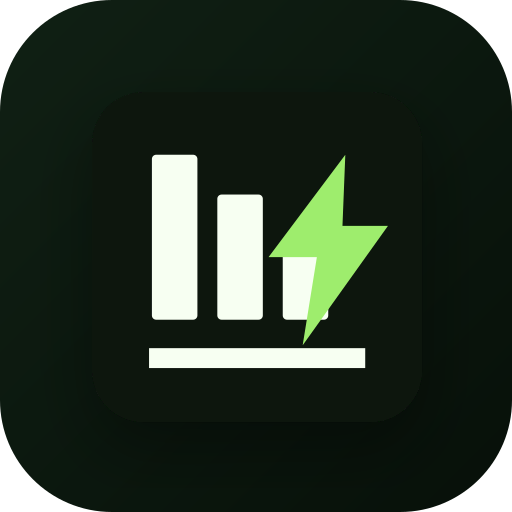
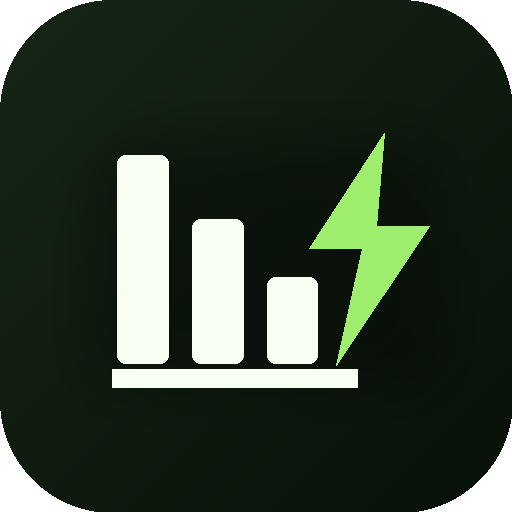
Add files via upload

diff --git a/styles.css b/styles.css
@@ -711,9 +711,9 @@ th:last-child {
   }
 
   .mobile-header .brand-mark img {
-    width: 37px;
-    height: 37px;
-    border-radius: 8px;
+    width: 100%;
+    height: 100%;
+    border-radius: 12px;
   }
 
   .sync-pill {
@@ -745,12 +745,22 @@ th:last-child {
     max-width: none;
     width: 100%;
     gap: 14px;
+    justify-self: stretch;
+  }
+
+  .custom-fields label {
+    display: grid;
+    width: 100%;
+    gap: 8px;
   }
 
   .custom-fields input {
+    width: 100%;
     min-width: 0;
+    min-height: 52px;
     padding: 0 14px;
     font-size: var(--text-md);
+    text-align: center;
   }
 
   .refresh-button {

diff --git a/k9v2m7q4/index.html b/k9v2m7q4/index.html
@@ -8,15 +8,15 @@
     <meta name="apple-mobile-web-app-status-bar-style" content="black">
     <meta name="apple-mobile-web-app-title" content="Home Studio BI">
     <title>Home Studio BI - Sheila</title>
-    <link rel="manifest" href="../manifest.webmanifest?v=11">
+    <link rel="manifest" href="../manifest.webmanifest?v=13">
     <link rel="apple-touch-icon" href="../assets/icon-192.png">
     <link rel="apple-touch-icon" sizes="180x180" href="../assets/apple-touch-icon.png">
     <link rel="apple-touch-icon" sizes="192x192" href="../assets/icon-192.png">
     <link rel="apple-touch-icon" sizes="512x512" href="../assets/icon-512.png">
     <link rel="icon" href="../assets/icon-192.png" type="image/png">
     <link rel="icon" href="../assets/icon.svg" type="image/svg+xml">
-    <link rel="stylesheet" href="../styles.css?v=11">
-    <link rel="stylesheet" href="../attendant.css?v=11">
+    <link rel="stylesheet" href="../styles.css?v=13">
+    <link rel="stylesheet" href="../attendant.css?v=13">
   </head>
   <body>
     <div class="app-shell">
@@ -180,11 +180,11 @@
         </button>
       </nav>
     </div>
-    <script src="../config.js?v=11"></script>
+    <script src="../config.js?v=13"></script>
     <script>
       window.HSBI_ATTENDANT_CONFIG = { slug: "k9v2m7q4", name: "Sheila" };
     </script>
-    <script src="../attendant.js?v=11"></script>
+    <script src="../attendant.js?v=13"></script>
   </body>
 </html>
 

diff --git a/attendant.js b/attendant.js
@@ -18,9 +18,9 @@
     attendant: {
       nome: pageConfig.name,
       comissao_percentual: 0,
-      meta_semanal_valor: 0,
       meta_premio: "",
       meta_titulo: "Meta semanal",
+      meta_valor: 0,
       meta_ativa: false,
       salario_fixo_mensal: 1000
     },
@@ -263,7 +263,7 @@
 
   function renderGoal() {
     const panel = document.getElementById("goalPanel");
-    const target = Number(state.attendant.meta_semanal_valor || 0);
+    const target = Number(state.attendant.meta_valor || 0);
     const active = Boolean(state.attendant.meta_ativa) && target > 0;
     panel.classList.toggle("is-hidden", !active);
     if (!active) return;
@@ -496,7 +496,7 @@
 
   function registerServiceWorker() {
     if ("serviceWorker" in navigator) {
-      navigator.serviceWorker.register("../sw.js?v=11").then((registration) => registration.update()).catch(console.error);
+      navigator.serviceWorker.register("../sw.js?v=13").then((registration) => registration.update()).catch(console.error);
     }
   }
 
@@ -509,9 +509,9 @@
         slug: pageConfig.slug,
         nome: "Sheila",
         comissao_percentual: 10,
-        meta_semanal_valor: 1000,
         meta_premio: "Jantar especial",
         meta_titulo: "Meta semanal",
+        meta_valor: 1000,
         meta_ativa: true,
         salario_fixo_mensal: 1000
       },

diff --git a/x7p4r9m2/index.html b/x7p4r9m2/index.html
@@ -8,14 +8,14 @@
     <meta name="apple-mobile-web-app-status-bar-style" content="black">
     <meta name="apple-mobile-web-app-title" content="Home Studio BI">
     <title>Home Studio BI</title>
-    <link rel="manifest" href="../manifest.webmanifest?v=10">
+    <link rel="manifest" href="../manifest.webmanifest?v=13">
     <link rel="apple-touch-icon" href="../assets/icon-192.png">
     <link rel="apple-touch-icon" sizes="180x180" href="../assets/apple-touch-icon.png">
     <link rel="apple-touch-icon" sizes="192x192" href="../assets/icon-192.png">
     <link rel="apple-touch-icon" sizes="512x512" href="../assets/icon-512.png">
     <link rel="icon" href="../assets/icon-192.png" type="image/png">
     <link rel="icon" href="../assets/icon.svg" type="image/svg+xml">
-    <link rel="stylesheet" href="../styles.css?v=10">
+    <link rel="stylesheet" href="../styles.css?v=13">
   </head>
   <body>
     <div class="app-shell">
@@ -220,8 +220,8 @@
         </button>
       </nav>
     </div>
-    <script src="../config.js?v=10"></script>
-    <script src="../app.js?v=10"></script>
+    <script src="../config.js?v=13"></script>
+    <script src="../app.js?v=13"></script>
   </body>
 </html>
 

diff --git a/app.js b/app.js
@@ -776,7 +776,7 @@
 
   function registerServiceWorker() {
     if ("serviceWorker" in navigator) {
-      navigator.serviceWorker.register("sw.js?v=10").then((registration) => registration.update()).catch(console.error);
+      navigator.serviceWorker.register("sw.js?v=13").then((registration) => registration.update()).catch(console.error);
     }
   }
 

diff --git a/sw.js b/sw.js
@@ -1,4 +1,4 @@
-const CACHE_NAME = "home-studio-bi-v11";
+const CACHE_NAME = "home-studio-bi-v13";
 const ASSETS = [
   "./styles.css",
   "./app.js",